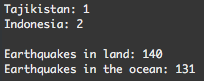
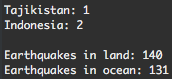
fix pic issue

diff --git a/build/earthQuakeMap.EarthquakeMap1502779772769.html b/build/earthQuakeMap.EarthquakeMap1502779772769.html
@@ -1,0 +1,7 @@
+<html>
+<meta http-equiv="Content-Type" content="text/html; charset=UTF-8"/>
+<body>
+<applet code=earthQuakeMap.EarthquakeMap.class width="200" height="200" >
+</applet>
+</body>
+</html>

diff --git a/src/earthQuakeMap/EarthquakeMap.java b/src/earthQuakeMap/EarthquakeMap.java
@@ -210,7 +210,7 @@ public class EarthquakeMap extends PApplet {
 		
 		System.out.println("");
 		System.out.println("Earthquakes in land: " + quakesByLand);
-		System.out.println("Earthquakes in the ocean: " + quakesByOcean);
+		System.out.println("Earthquakes in ocean: " + quakesByOcean);
 		
 	}
 	
